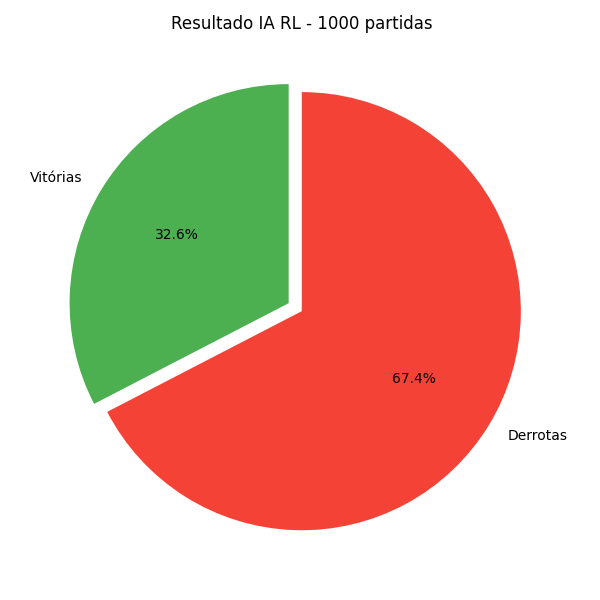
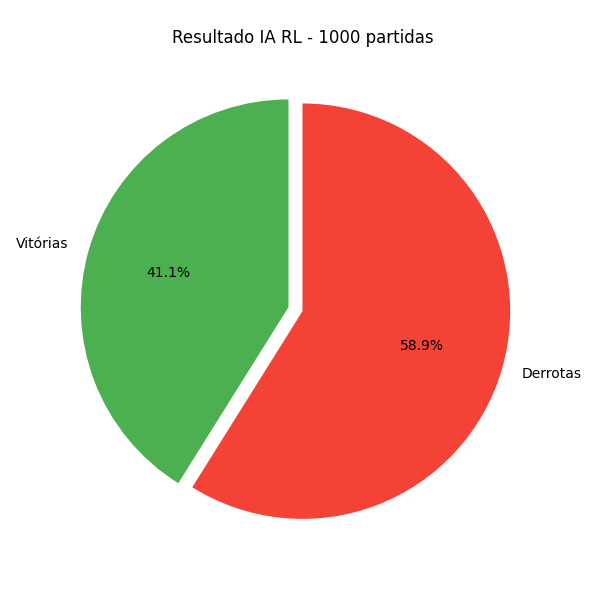
fix: episolon

diff --git a/play_rl.py b/play_rl.py
@@ -9,7 +9,7 @@ from game.campo_minado import CampoMinado
 LINHAS = 4
 COLUNAS = 4
 N_BOMBAS = 2
-MODEL_PATH = 'reinforcement_learning/models/model_10000_partidas_4_x_4_2M.pth'
+MODEL_PATH = 'reinforcement_learning\models\model_1000_partidas_4_x_4_2M_V9.2.pth'
 
 RESULTADOS_DIR = 'reinforcement_learning/resultados_finais'
 os.makedirs(RESULTADOS_DIR, exist_ok=True)
@@ -41,7 +41,7 @@ def main():
         resultado = None  # 'VITÓRIA' ou 'DERROTA'
 
         while campo.jogo_ativo:
-            action = agent.get_action(state, campo)
+            action = agent.get_action(state, campo, epsilon=0)
             move = action.argmax()
             linha, coluna = move // COLUNAS, move % COLUNAS
             celula = campo.campo[linha][coluna]

diff --git a/reinforcement_learning/agent.py b/reinforcement_learning/agent.py
@@ -57,8 +57,11 @@ class MinesweeperAgent:
     def train_short_memory(self, state, action, reward, next_state, done):
         self.trainer.train_step(state, action, reward, next_state, done)
 
-    def get_action(self, state, campo):
-        self.epsilon = max(2, 40 - self.n_games // 10)
+    def get_action(self, state, campo, epsilon=None):
+        if epsilon is None:
+            self.epsilon = max(2, 40 - self.n_games // 10)
+        else:
+            self.epsilon = epsilon
         final_move = np.zeros(self.linhas * self.colunas)
         # Só pode clicar em células ocultas
         choices = [(i, j) for i in range(self.linhas) for j in range(self.colunas) if not campo.campo[i][j].revelada]

diff --git a/minesweeper_rl_v8.py b/minesweeper_rl_v8.py
@@ -60,7 +60,7 @@ def train():
     total_victory = 0
     record = 0
     agent = MinesweeperAgent(linhas, colunas, n_bombas)
-    N_EPISODES = 30000
+    N_EPISODES = 1000
 
     for game in range(N_EPISODES):
         campo = CampoMinado(linhas, colunas, n_bombas)
@@ -101,7 +101,7 @@ def train():
 
         if score > record:
             record = score
-            model_name = f"model_{N_EPISODES}_partidas_{linhas}_x_{colunas}_{n_bombas}M_V9.pth"
+            model_name = f"model_{N_EPISODES}_partidas_{linhas}_x_{colunas}_{n_bombas}M_V9.2.pth"
             print(model_name)
             agent.model.save(file_name=model_name)
         scores.append(score)

diff --git a/reinforcement_learning/helper.py b/reinforcement_learning/helper.py
@@ -34,4 +34,4 @@ def plot(scores, mean_scores, winrates=None, mov_avg_scores=None, mov_avg_winrat
     plt.pause(.1)
     # Salva a imagem se solicitado
     if save_final:
-        plt.savefig(f"reinforcement_learning/results/campo_minado_rl_training_{plays}_partidas_{tab_len}_x_{tab_len}_{num_mines}M_K2.png")
+        plt.savefig(f"reinforcement_learning/results/campo_minado_rl_training_{plays}_partidas_{tab_len}_x_{tab_len}_{num_mines}M_K3.png")
